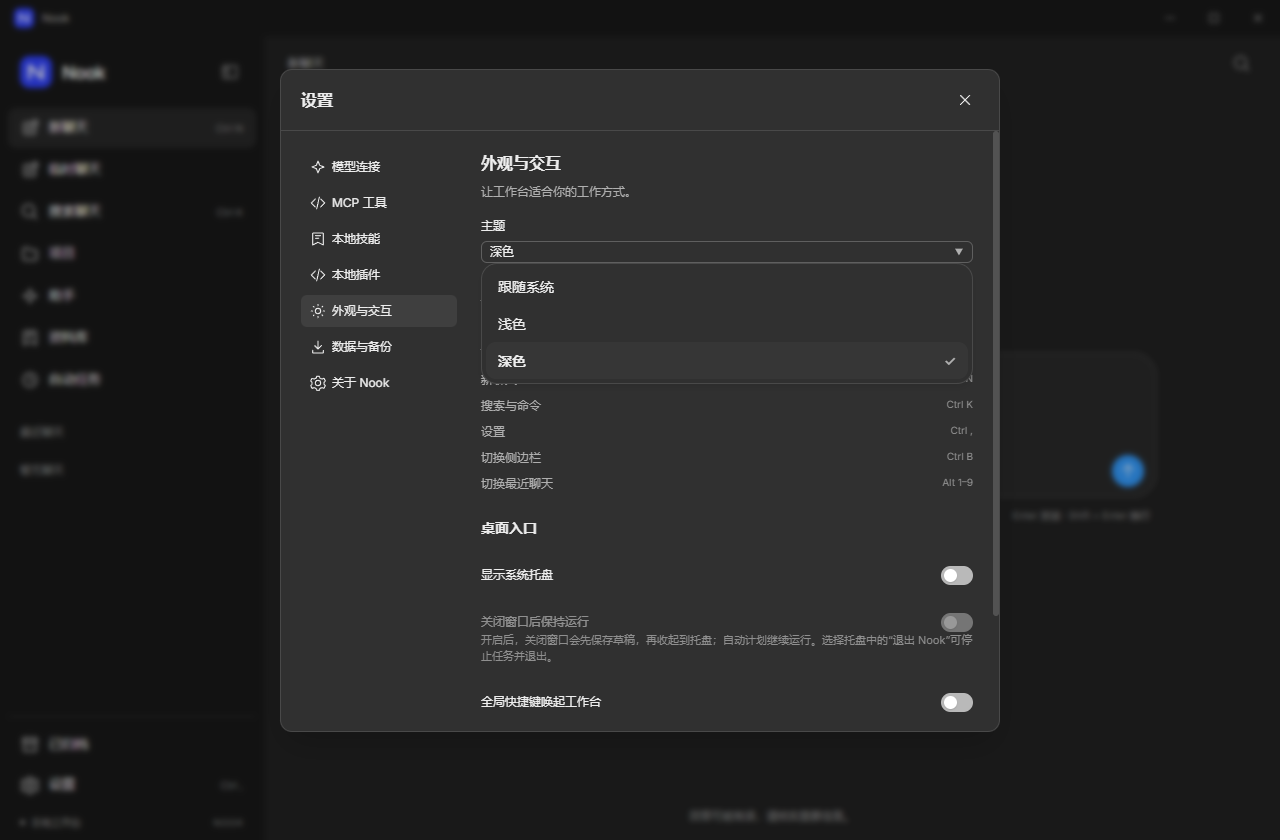
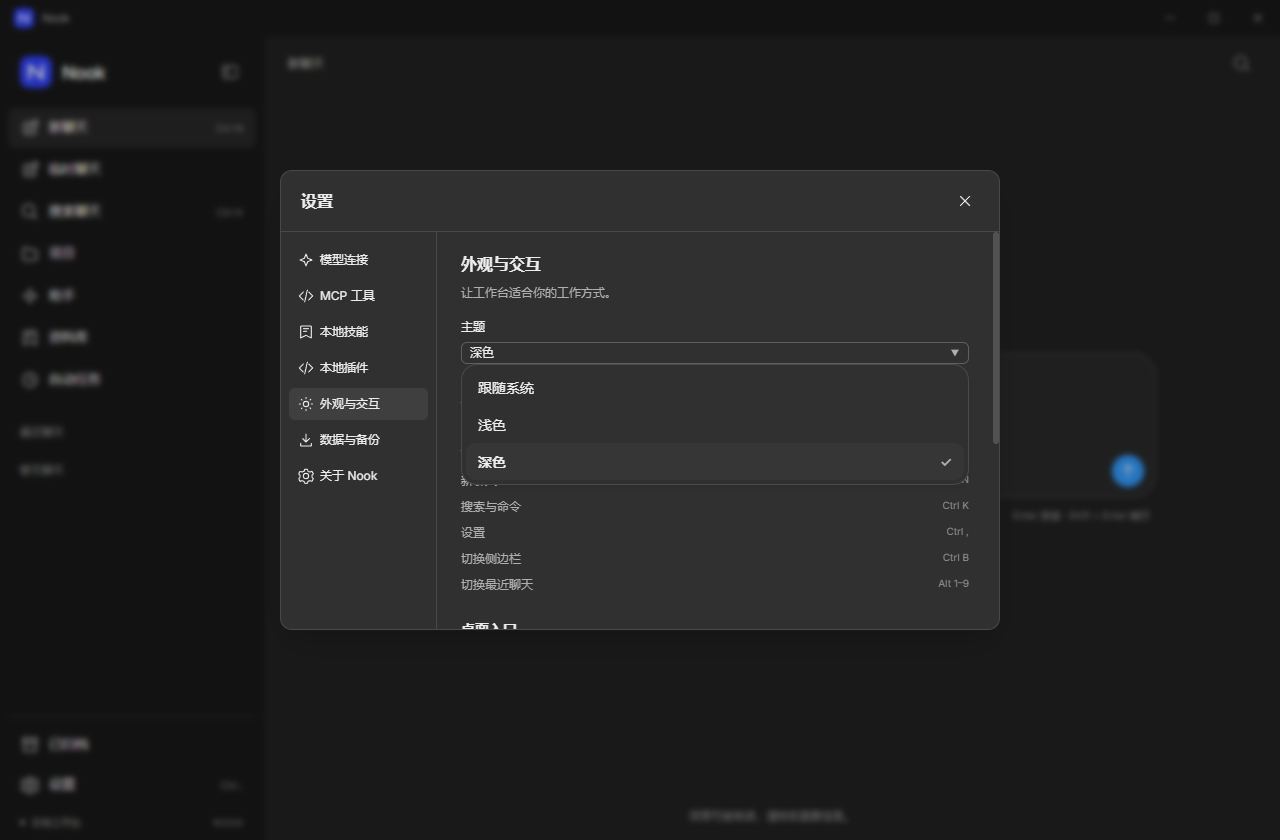
feat(ui): 收紧设置弹窗并分离分类导航与内容滚动

diff --git a/workbench/pages/preferences.tsx b/workbench/pages/preferences.tsx
@@ -29,7 +29,7 @@ export function PreferencesDialog({ state, onState, onRestore, onClose, report, 
     setEditing((current) => current ? { ...current, [field]: value, ...(field === 'endpoint' && value !== current.endpoint ? { modelCatalog: undefined } : {}) } : null);
   }
   const tabs = [{ id: 'models', label: '模型连接', icon: 'assistant' }, { id: 'mcp', label: 'MCP 工具', icon: 'code' }, { id: 'skills', label: '本地技能', icon: 'library' }, { id: 'plugins', label: '本地插件', icon: 'code' }, { id: 'appearance', label: '外观与交互', icon: 'sun' }, { id: 'data', label: '数据与备份', icon: 'download' }, { id: 'about', label: '关于 Nook', icon: 'settings' }] as const;
-  return <Modal title="设置" onClose={onClose}><div className="settings-layout"><nav className="settings-nav" aria-label="设置分类">{tabs.map((item) => <Button key={item.id} className={tab === item.id ? 'selected' : ''} onClick={() => { setTab(item.id); setEditing(null); }}><Glyph name={item.icon} size={16} />{item.label}</Button>)}</nav><section className="settings-detail">
+  return <Modal className="settings-dialog" title="设置" onClose={onClose}><div className="settings-layout"><nav className="settings-nav" aria-label="设置分类">{tabs.map((item) => <Button key={item.id} className={tab === item.id ? 'selected' : ''} onClick={() => { setTab(item.id); setEditing(null); }}><Glyph name={item.icon} size={16} />{item.label}</Button>)}</nav><section key={tab} className="settings-detail" aria-label={tabs.find((item) => item.id === tab)?.label}>
     {tab === 'models' && (editing ? <>
       <div className="section-heading"><Button disabled={busy} onClick={() => setEditing(null)}>← 返回连接列表</Button><span className="muted">{editing.hasKey ? '密钥已保存在系统中' : '新连接'}</span></div>
       <Field label="连接名称"><Input disabled={busy} value={editing.name} placeholder="例如：我的模型" onChange={(event) => updateProvider('name', event.target.value)} /></Field>

diff --git a/workbench/theme/surfaces.css b/workbench/theme/surfaces.css
@@ -323,6 +323,13 @@ kbd { font-family: inherit; font-size: 10px; color: var(--ds-text-tertiary); whi
 .settings-nav { display: flex; flex-direction: column; gap: 4px; }
 .settings-nav .button { justify-content: flex-start; min-height: 32px; }
 .settings-detail { min-width: 0; }
+.settings-dialog { height: min(460px, calc(100dvh - 80px)); }
+.settings-dialog > .modal-content { display: flex; padding: 0; max-height: none; overflow: hidden; }
+.settings-dialog .settings-layout { flex: 1; min-height: 0; gap: 0; }
+.settings-dialog .settings-nav { min-height: 0; padding: 12px 8px; border-right: 1px solid var(--ds-border); overflow-y: auto; overscroll-behavior: contain; }
+.settings-dialog .settings-nav .button { flex-shrink: 0; }
+.settings-dialog .settings-detail { min-height: 0; padding: 20px 24px; overflow-y: auto; overscroll-behavior: contain; scrollbar-gutter: stable; }
+.settings-dialog .empty { padding: 40px 8px; }
 .extension-server { padding-bottom: 12px; border-bottom: 1px solid var(--ds-border); }
 .extension-server .list-row { border-bottom: 0; }
 .extension-actions { display: flex; flex-wrap: wrap; gap: 8px; }
@@ -489,6 +496,8 @@ kbd { font-family: inherit; font-size: 10px; color: var(--ds-text-tertiary); whi
   .modal { width: 100vw; max-width: 100vw; height: 100vh; max-height: 100vh; margin: 0; transform: none; border-radius: 0; }
   .modal-content { max-height: calc(100vh - 130px); }
   .settings-layout { grid-template-columns: 128px minmax(0, 1fr); gap: 16px; }
+  .settings-dialog .settings-layout { grid-template-columns: 128px minmax(0, 1fr); gap: 0; }
+  .settings-dialog .settings-detail { padding: 16px; }
   .transcript { padding: 20px 20px 20px 40px; }
   .composer-dock { padding: 8px 20px 16px; }
   .project-layout { grid-template-columns: minmax(0, 1fr); }

diff --git a/docs/DESIGN-ALIGNMENT.md b/docs/DESIGN-ALIGNMENT.md
@@ -8,7 +8,7 @@
 | 首页：大输入框和工具栏 | 居中标题、输入框、任务建议；取消重复品牌图和宣传页脚 | 输入框工具分组、窄窗口操作密度 |
 | 侧栏：240–280px、40px 导航行 | 默认 264px，40px 导航行 | 窄窗口与缩放时的折叠行为 |
 | `控件完整规范.txt`：输入、选择、菜单、开关 | 共享控件与参考尺寸；选择器使用可样式化的原生弹层，采用参考圆角、选项字号、留白和选中标记 | 仍需对更多内容长度、弹出方向及各页面控件组合核对 |
-| `组件规范.txt`：对话框、设置、消息和项目面板 | 已有对应页面 | 对各页面分别截图、核对层级和留白 |
+| `组件规范.txt`：对话框、设置、消息和项目面板 | 设置采用 720×460 弹窗、固定分类导航和独立内容滚动；窄屏铺满 | 其他对话框、消息和项目面板仍需分别核对 |
 | `字体规范.txt`：OpenAI Sans | Inter + 系统中文字体 | 明确的字体差异，不能计为一致 |
 | `icons/svg`、`brand` | 独立线性功能图标、Nook 字母图标 | 品牌为独立设计，功能图标尚需逐项对照 |
 | `交互设计.txt` | 已有快捷键、悬停、焦点、减少动效支持 | 逐项核对交互清单，不能仅凭样式变量认定完成 |
@@ -22,3 +22,5 @@
 浅色、深色、760×540 窗口分别检查首页、对话、设置、项目和弹窗；同时检查键盘操作、可读性、溢出及实际功能。截图必须来自当前构建。功能测试通过不等于设计验收通过。
 
 下拉菜单已检查真实浅色、深色展开截图，键盘选择会保存主题，Escape 关闭菜单后保留设置弹窗。当前截图：[浅色](images/select-light.png)、[深色](images/select-dark.png)。这批下拉样式来自最新源码构建，先前 Nook 安装包验证不包含此后的样式修改。
+
+设置页已验证长表单滚动不移动分类导航，切换分类回到标题；填写模型连接后可以滚动到保存按钮。七个分类在 760×540 窗口的 100%／125%／150% 缩放下均完成布局、焦点与关闭检查。截图：[常规设置](images/settings-light.png)、[150% 缩放](images/settings-zoomed.png)、[连接表单末尾](images/settings-connection.png)。这些检查覆盖空工作台分类和一个填写中的模型连接，不代表所有复杂配置均已验证。
